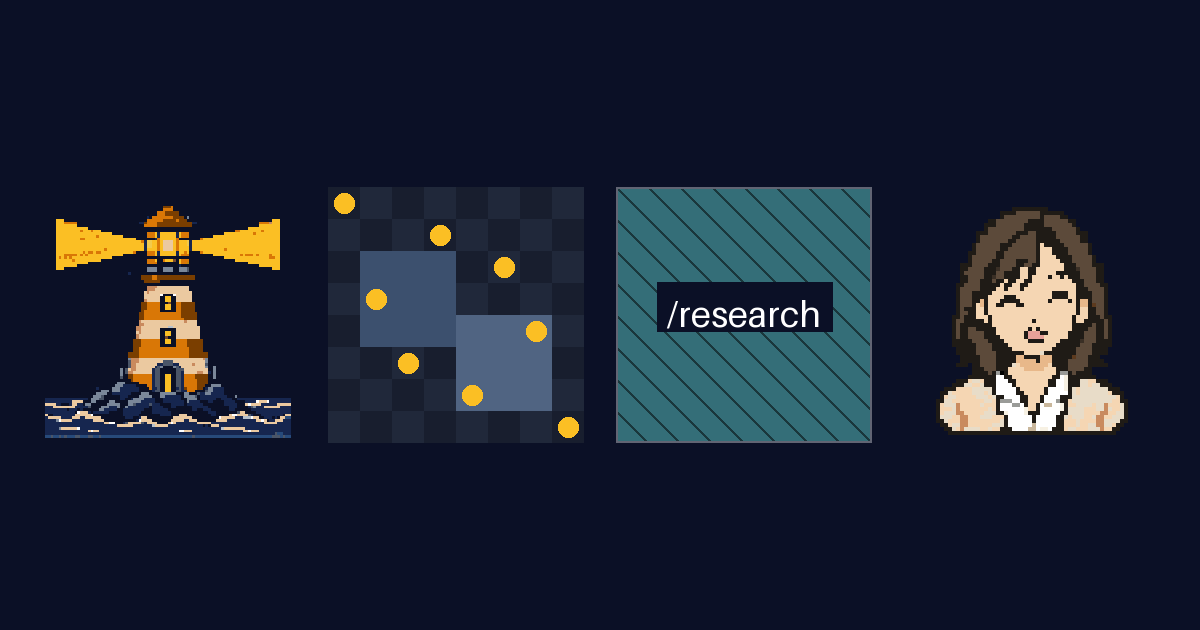
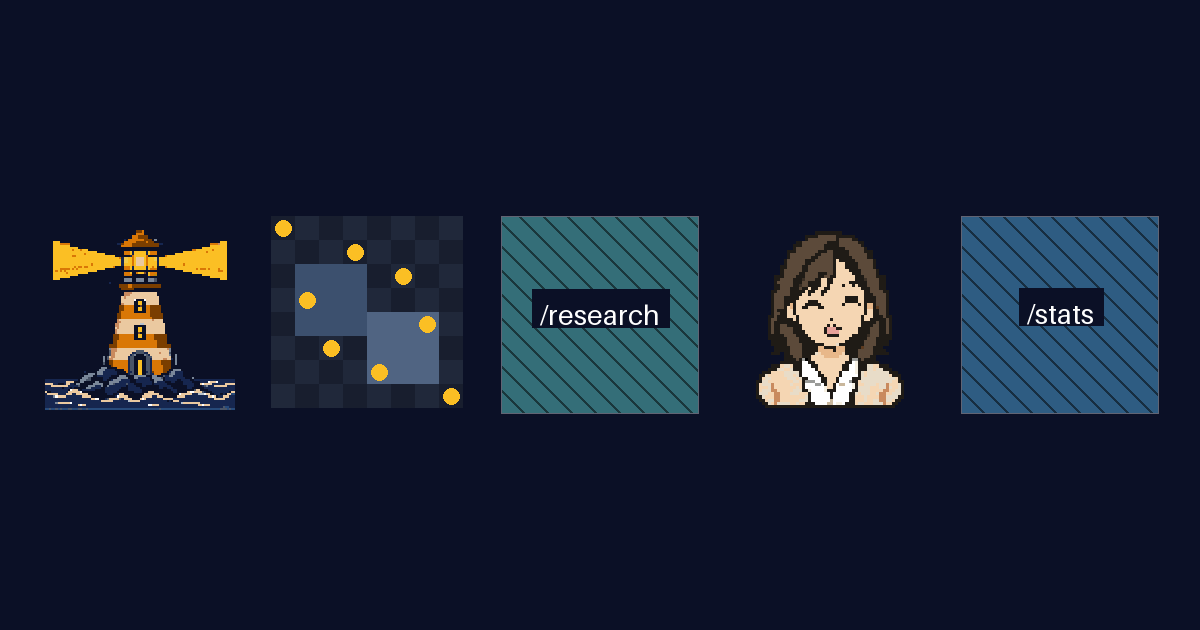
Meta: per-route document title and description from one route table; add /stats to OG

Changed region(s): [[0.0308, 0.2714, 0.9867, 0.7238], [0.2775, 0.3016, 0.3083, 0.3317]]

diff --git a/tests/ui/route-meta.test.ts b/tests/ui/route-meta.test.ts
@@ -1,0 +1,69 @@
+import { describe, it } from 'node:test';
+import assert from 'node:assert/strict';
+import { readFileSync } from 'node:fs';
+import { ROUTE_META, applyRouteMeta, metaFor, type MetaDocument } from '../../src/ui/route-meta.ts';
+
+function fakeDocument(): MetaDocument & { tags: Record<string, { content: string }> } {
+  const tags: Record<string, { content: string }> = {
+    'meta[name="description"]': { content: '기본 설명' },
+    'meta[property="og:title"]': { content: '기본 og 제목' },
+    'meta[property="og:description"]': { content: '기본 og 설명' },
+  };
+  const elements = Object.fromEntries(Object.entries(tags).map(([selector, tag]) => [selector, {
+    getAttribute: () => tag.content,
+    setAttribute: (_name: string, value: string) => { tag.content = value; },
+  }]));
+  return { title: 'ai-ps', tags, querySelector: (selector: string) => elements[selector] ?? null };
+}
+
+describe('Given the route meta table', () => {
+  it('When looking up a route Then returns its title and tolerates a trailing slash', () => {
+    assert.equal(metaFor('/stats').title, '사용량 · ai-ps');
+    assert.equal(metaFor('/chat/').title, 'Chat · ai-ps');
+    assert.equal(metaFor('/').title, 'ai-ps');
+  });
+
+  it('When the path is unknown Then falls back to the site title', () => {
+    assert.equal(metaFor('/nope').title, 'ai-ps');
+  });
+
+  it('When every App route is checked Then each has its own meta entry', () => {
+    const app = readFileSync('src/ui/App.tsx', 'utf8');
+    const paths = [...app.matchAll(/<Route path="([^"]+)"/g)].map((m) => m[1]!).filter((p) => p !== '/queen');
+    assert.ok(paths.includes('/stats'));
+    for (const path of paths) assert.ok(path in ROUTE_META, `${path} missing in ROUTE_META`);
+  });
+
+  it('When og.json lists routes Then each exists in the table', () => {
+    const og = JSON.parse(readFileSync('scripts/og.json', 'utf8')) as { features: { route: string }[] };
+    assert.ok(og.features.some((f) => f.route === '/stats'));
+    for (const { route } of og.features) assert.ok(route in ROUTE_META, route);
+  });
+});
+
+describe('Given a document', () => {
+  it('When applying a route Then sets title, description and og tags', () => {
+    const doc = fakeDocument();
+    applyRouteMeta(doc, '/research');
+    assert.equal(doc.title, ROUTE_META['/research']!.title);
+    assert.equal(doc.tags['meta[name="description"]']!.content, ROUTE_META['/research']!.description);
+    assert.equal(doc.tags['meta[property="og:title"]']!.content, ROUTE_META['/research']!.title);
+    assert.equal(doc.tags['meta[property="og:description"]']!.content, ROUTE_META['/research']!.description);
+  });
+
+  it('When returning to home Then restores the original description tags', () => {
+    const doc = fakeDocument();
+    applyRouteMeta(doc, '/talk');
+    applyRouteMeta(doc, '/');
+    assert.equal(doc.title, 'ai-ps');
+    assert.equal(doc.tags['meta[name="description"]']!.content, '기본 설명');
+    assert.equal(doc.tags['meta[property="og:title"]']!.content, '기본 og 제목');
+    assert.equal(doc.tags['meta[property="og:description"]']!.content, '기본 og 설명');
+  });
+
+  it('When tags are missing Then only the title changes without throwing', () => {
+    const doc: MetaDocument = { title: '', querySelector: () => null };
+    applyRouteMeta(doc, '/chat');
+    assert.equal(doc.title, 'Chat · ai-ps');
+  });
+});

diff --git a/src/ui/route-meta.ts b/src/ui/route-meta.ts
@@ -1,0 +1,56 @@
+// 라우트별 문서 제목·설명의 단일 출처. 새 라우트를 App.tsx에 추가하면 여기에도 추가한다(테스트가 강제).
+export interface RouteMeta {
+  title: string;
+  description?: string;
+}
+
+const SITE = 'ai-ps';
+
+// '/' 와 알 수 없는 경로는 설명을 비워 두어 index.html 의 기본 태그(og.json 생성물)를 그대로 쓴다.
+export const ROUTE_META: Record<string, RouteMeta> = {
+  '/': { title: SITE },
+  '/chat': { title: `Chat · ${SITE}`, description: '도구 호출과 계획 실행을 시험하는 AI 채팅.' },
+  '/queens': { title: `Queens · ${SITE}`, description: 'AI가 생성하는 Queens 퍼즐.' },
+  '/adventure': { title: `Adventure · ${SITE}`, description: '「잿빛 등대」 텍스트 어드벤처.' },
+  '/talk': { title: `Talk · ${SITE}`, description: '일본어 회화 연습 튜터.' },
+  '/research': { title: `Research · ${SITE}`, description: '검색과 웹 읽기로 주제를 조사해 보고서를 쓰는 자동 리서치 에이전트.' },
+  '/stats': { title: `사용량 · ${SITE}`, description: '외부 API 호출·오류·비용 통계.' },
+};
+
+export function metaFor(pathname: string): RouteMeta {
+  const path = pathname.length > 1 ? pathname.replace(/\/+$/, '') : pathname;
+  return ROUTE_META[path] ?? ROUTE_META['/']!;
+}
+
+interface MetaTag {
+  getAttribute(name: string): string | null;
+  setAttribute(name: string, value: string): void;
+}
+export interface MetaDocument {
+  title: string;
+  querySelector(selector: string): MetaTag | null;
+}
+
+const TAGS = {
+  description: 'meta[name="description"]',
+  ogTitle: 'meta[property="og:title"]',
+  ogDescription: 'meta[property="og:description"]',
+} as const;
+
+// 첫 적용 때 index.html 의 원래 content 를 기억해 두었다가 '/' 로 돌아오면 복원한다.
+const originals = new WeakMap<object, string>();
+
+function setContent(doc: MetaDocument, selector: string, value: string | undefined) {
+  const tag = doc.querySelector(selector);
+  if (!tag) return;
+  if (!originals.has(tag)) originals.set(tag, tag.getAttribute('content') ?? '');
+  tag.setAttribute('content', value ?? originals.get(tag) ?? '');
+}
+
+export function applyRouteMeta(doc: MetaDocument, pathname: string): void {
+  const { title, description } = metaFor(pathname);
+  doc.title = title;
+  setContent(doc, TAGS.description, description);
+  setContent(doc, TAGS.ogTitle, description === undefined ? undefined : title);
+  setContent(doc, TAGS.ogDescription, description);
+}

diff --git a/src/ui/App.tsx b/src/ui/App.tsx
@@ -1,5 +1,5 @@
-import { Route, Router, useNavigate } from '@solidjs/router';
-import { onMount } from 'solid-js';
+import { Route, Router, useLocation, useNavigate, type RouteSectionProps } from '@solidjs/router';
+import { createEffect, onMount } from 'solid-js';
 import { QueryClient, QueryClientProvider } from '@tanstack/solid-query';
 import type { ChatController } from '../app/chat.ts';
 import type { QueensGenerationController } from '../app/queens/generation-store.ts';
@@ -11,6 +11,7 @@ import { AdventurePage } from './pages/AdventurePage.tsx';
 import { IndexPage } from './pages/IndexPage.tsx';
 import { TalkPage } from './pages/TalkPage.tsx';
 import { ResearchPage } from './pages/ResearchPage.tsx';
+import { applyRouteMeta } from './route-meta.ts';
 import { StatsPage } from './pages/StatsPage.tsx';
 import type { StatsClient } from './pages/stats-view.ts';
 import type { ResearchClient } from './widgets/research/types.ts';
@@ -29,6 +30,13 @@ function RedirectToQueens() {
   return null;
 }
 
+// 라우트가 바뀔 때마다 문서 제목·설명을 route-meta 표대로 맞춘다(전 라우트 공통, 한 곳).
+function RouteMeta(props: RouteSectionProps) {
+  const location = useLocation();
+  createEffect(() => applyRouteMeta(document, location.pathname));
+  return props.children;
+}
+
 export function App(props: {
   chat: ChatController;
   queens: QueensGenerationController;
@@ -43,7 +51,7 @@ export function App(props: {
 }) {
   return (
     <QueryClientProvider client={queryClient}>
-      <Router>
+      <Router root={RouteMeta}>
         <Route path="/" component={IndexPage} />
         <Route path="/queens" component={() => <QueensPage queens={props.queens} />} />
         <Route path="/queen" component={RedirectToQueens} />
